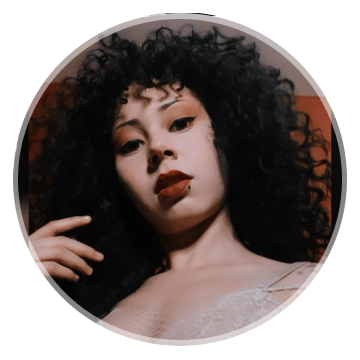
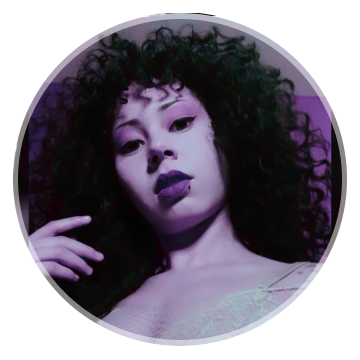
quase pronta

diff --git a/0219-linktree/style.css b/0219-linktree/style.css
@@ -2,12 +2,30 @@
   margin: 0px;
   padding: 0px;
   font-family: "Inter", sans-serif;
-  color: white;
+  color: var(--text-color);
   box-sizing: border-box;
 }
 
+:root {
+  --text-color: white;
+  --bg-url: url(img/bg-mobile.jpg);
+  --stroke-color: rgba(255, 255, 255, 0.5);
+  --surface-color: rgba(255, 255, 255, 0.2);
+  --surface-color-hover: rgba(255, 255, 255, 0.05);
+  --switch-bg-url: url(img/moon-stars.svg);
+}
+
+.light {
+  --text-color: black;
+  --bg-url: url(img/bg-mobile-light.jpg);
+  --stroke-color: rgba(0, 0, 0, 0.5);
+  --surface-color: rgba(0, 0, 0, 0.263);
+  --surface-color-hover: rgba(0, 0, 0, 0.05);
+  --switch-bg-url: url(img/sun.svg);
+}
+
 body {
-  background: url(img/bg-mobile.jpg) no-repeat center top/cover;  
+  background: var(--bg-url) center top/cover;  
 }
 
 #container {
@@ -33,6 +51,47 @@ body {
   margin: 12px 0px;
 }
 
+/* switch */
+
+#switch {
+  width: 64px;
+  position: relative;
+
+  margin: 4px auto;
+}
+
+#switch button {
+  width: 32px;
+  height: 32px;
+  background: white var(--switch-bg-url) no-repeat center;
+  border: 0;
+  border-radius: 50%;
+
+  position: absolute;
+  top: 50%;
+  left: 0;
+  z-index: 1;
+
+  transform: translateY(-50%);
+
+}
+
+.light #switch button {
+right: 0;
+left: initial;
+}
+
+#switch span {
+  display: block;
+  width: 64px;
+  height: 24px;
+  background: var(--surface-color);
+  border: 1px solid var(--stroke-color);
+  backdrop-filter: blur(4px);
+  -webkit-backdrop-filter: blur(4px);
+  border-radius: 9999px;
+}
+
 /* links */
 ul {
   list-style: none;
@@ -49,32 +108,51 @@ ul li a {
   justify-content: center;
   padding: 16px 24px;
 
-  background: rgba(255, 255, 255, 0.1);
-  border: 1px solid rgba(255, 255, 255, 0.298);
+  background: var(--surface-color);
+  border: 1px solid var(--stroke-color);
   border-radius: 10px;
 
   backdrop-filter: blur(4px);
   -webkit-backdrop-filter: blur(4px);
 
   text-decoration: none;
-  font-weight: bold;
+  font-weight: 200;
+  text-shadow: 2px 2px 10px rgb(0, 0, 0);
 
   transition: background 0.8s ;
 }
 
 ul li a:hover {
-  background: rgba(255, 255, 255, 0.05);
-  border: 1.5px solid rgb(255, 255, 255);
+  background: var(--surface-color-hover);
+  border: 1.5px solid var(--text-color);
 }
 
 #social {
   display: flex;
   justify-content: center;
-  gap: 32px;
 
   padding: 24px 0;
 
   font-size: 24px;
 }
 
-#social:hover
+#social a {
+  display: flex;
+  align-items: center;
+  justify-content: center;
+  padding: 16px;
+  border-radius: 50%;
+
+  transition: background 0.8s;
+}
+
+#social a:hover {
+  background: var(--surface-color-hover);
+}
+
+footer {
+  padding: 24px 0;
+  text-align: center;
+  font-size: 12px;
+  color: var(--text-color);
+}

diff --git a/0219-linktree/index.html b/0219-linktree/index.html
@@ -1,5 +1,5 @@
 <!DOCTYPE html>
-<html lang="pt-BR"> 
+<html lang="pt-BR" class="light"> 
   <head>
     <meta charset="UTF-8">
     <meta http-equiv="X-UA-Compatible" content="IE=7">
@@ -11,26 +11,31 @@
     <link href="https://fonts.googleapis.com/css2?family=Inter:wght@100..900&display=swap" rel="stylesheet">
     
     <link rel="stylesheet" href="style.css">
+
   </head>
   <body>
     <h1></h1>
     <div id="container">
       <div id="profile">
-        <img src="img/Avatar.png" alt="Foto de Débora com cabelo cacheado solto e fundo alaranjado">
+        <img src="img/Avatar.png" alt="Foto de Débora com cabelo solto, grande e cacheado">
+  
         <p>@debizinha.santos</p>
+
+      <div id="switch" onclick="toggleMode()">
+        <button></button>
+        <span></span>
+      </div>
+
       <ul>
         <li>
           <a href="#" target="_blank">0</a>
         </li>
-
         <li>
           <a href="#" target="_blank">1</a>
         </li>
-
         <li>
           <a href="#" target="_blank">2</a>
         </li>
-
         <li>
           <a href="#" target="_blank">3</a>
         </li>
@@ -47,10 +52,13 @@
           </a>   
         </div>
       </div>
-    </div>
 
+    </div>
+    <footer>Feito com ♥ durante uma aula da <a href="https://www.rocketseat.com.br">Rocketseat</a></footer>
     <script type="module" src="https://unpkg.com/ionicons@7.1.0/dist/ionicons/ionicons.esm.js"></script>
-<script nomodule src="https://unpkg.com/ionicons@7.1.0/dist/ionicons/ionicons.js"></script>
+    <script nomodule src="https://unpkg.com/ionicons@7.1.0/dist/ionicons/ionicons.js"></script>
+
+    <script src="script.js"></script>
 
   </body>
 </html>

diff --git a/0219-linktree/script.js b/0219-linktree/script.js
@@ -1,0 +1,22 @@
+function toggleMode() {
+  const html = document.documentElement
+  // if(html.classList.contains('light')) {
+  //   html.classList.remove('light')
+  // } else {
+  //   html.classList.add('light')
+  // }
+  html.classList.toggle("light")
+
+  //pegar a tag img
+  const img = document.querySelector("#profile img")
+  //substituir a imagem
+  if(html.classList.contains('light')) {
+  // se tiver light mode adicionar a imagem light
+  img.setAttribute('src', 'img/avatar-light.png')
+  } else {
+  // se estiver sem light mode, manter a imagem normal
+  img.setAttribute('src','img/Avatar.png')
+}
+
+  }
+  
